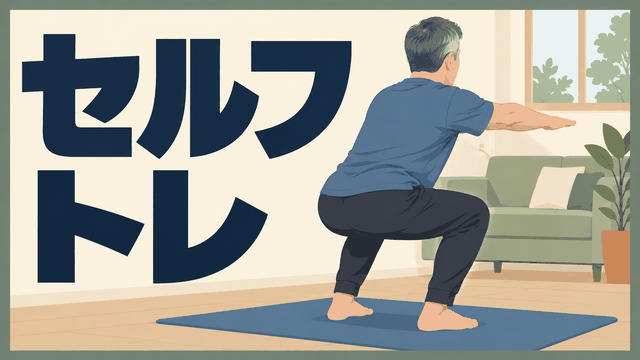
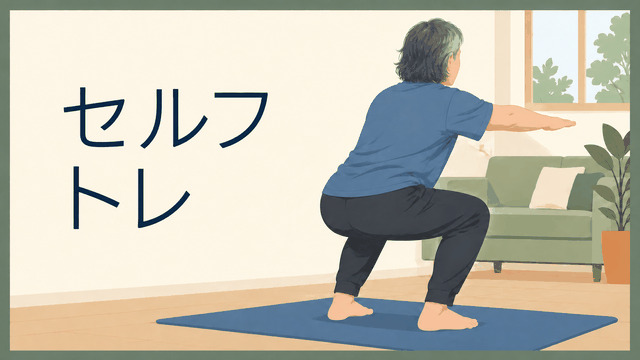
セルフトレ picture v3: gender-neutral figure, lighter lettering

diff --git a/design/THEMES_20260914.md b/design/THEMES_20260914.md
@@ -42,6 +42,6 @@
 - 曜日行 月〜日（700 11px `--faint`・月曜始まり）。日のセル＝min-height 48・padding 5px 0 6px・角丸9・数字 700 13px・下に 22px 角丸6 の四角。**記録あり＝四角の塗り（1件 `--lv1`／2件 `--lv2`／3〜4件 `--lv3`／5件〜 `--lv4`）／記録なし＝`1.5px dashed --cell-dash`／未来＝`--cell-dash-future` で数字も `--faint`・押せない／今日＝セルに `2px solid --today-ring`／選んだ日＝セル地 `--ink`・数字 `--card`（反転）**。色相は使わない。
 - 凡例＝`--lv1..4` の 12px 四角＋「記録の多い日ほど濃く」／破線の四角＋「記録なし」。次に1行「この月に記録があった日は N 日です。日を押すと、その日の記録が下に出ます。」
 - 下＝「9月12日（土）の記録」800 15px＋右「2件 ／ 最後は 10:30」→ ホームと同じ記録カード（**「編集」は置かない＝9/12・9/14 決定を優先**・上段を押すと開く）。記録が無い日＝「9月13日（日）は記録がありません。」＋輪郭ボタン「**この日に記録する**」（ホーム2態目と同じ形・「足す」は使わない）。
-- **動画の無い記録の絵（1パターン）＝2026-09-14 同日に本人是正「YouTube のサムネイルみたいなちゃんとした絵、イラストを」→ Codex image_gen で描いた「セルフトレ」文字入りイラスト（居間のマットでスクワットする男性・16:9）を `thumbs/selftre.png`（640×360・PNG）として採用。原本＝`C:/VoiceMirror/data/workout/thumbs/selftre-v1.png`（1672×941）・依頼文＝`C:/VoiceMirror/handoff/codex_chat/toreroku-selftre-thumb.md`。読めない時だけ Design の「枠に四角」の SVG に戻る。**（Design 原案＝「枠に四角」の SVG（112×64・角丸8・地 `--line2`・36px の角丸枠と 18px の塗り四角を `--faint` で）。週の目盛りの「今日の枠」を小さくした形で、手入力・道具・場所を表さない。3テーマ共通・画像ファイル不要。Codex で絵を描く案は採らなかった（本人「おまかせ」・2026-09-14）。
+- **動画の無い記録の絵（1パターン）＝2026-09-14 同日に本人是正「YouTube のサムネイルみたいなちゃんとした絵、イラストを」→ Codex image_gen で描いた「セルフトレ」文字入りイラスト（居間のマットでスクワットする**性別を特定しない中高年の後ろ姿**・文字は細めのゴシック・16:9＝本人 2026-09-14「男性か女性かわからないような微妙な感じに」「文字が太すぎて強すぎ」で v3 に差し替え）を `thumbs/selftre.png`（640×360・PNG）として採用。原本＝`C:/VoiceMirror/data/workout/thumbs/selftre-v3.png`（1672×941・v1/v2 は同フォルダに保管）・依頼文＝`C:/VoiceMirror/handoff/codex_chat/toreroku-selftre-thumb.md`。読めない時だけ Design の「枠に四角」の SVG に戻る。**（Design 原案＝「枠に四角」の SVG（112×64・角丸8・地 `--line2`・36px の角丸枠と 18px の塗り四角を `--faint` で）。週の目盛りの「今日の枠」を小さくした形で、手入力・道具・場所を表さない。3テーマ共通・画像ファイル不要。Codex で絵を描く案は採らなかった（本人「おまかせ」・2026-09-14）。
 - 手入力の記録の名前＝「セルフトレ」（本人案・同日採用）。
 
